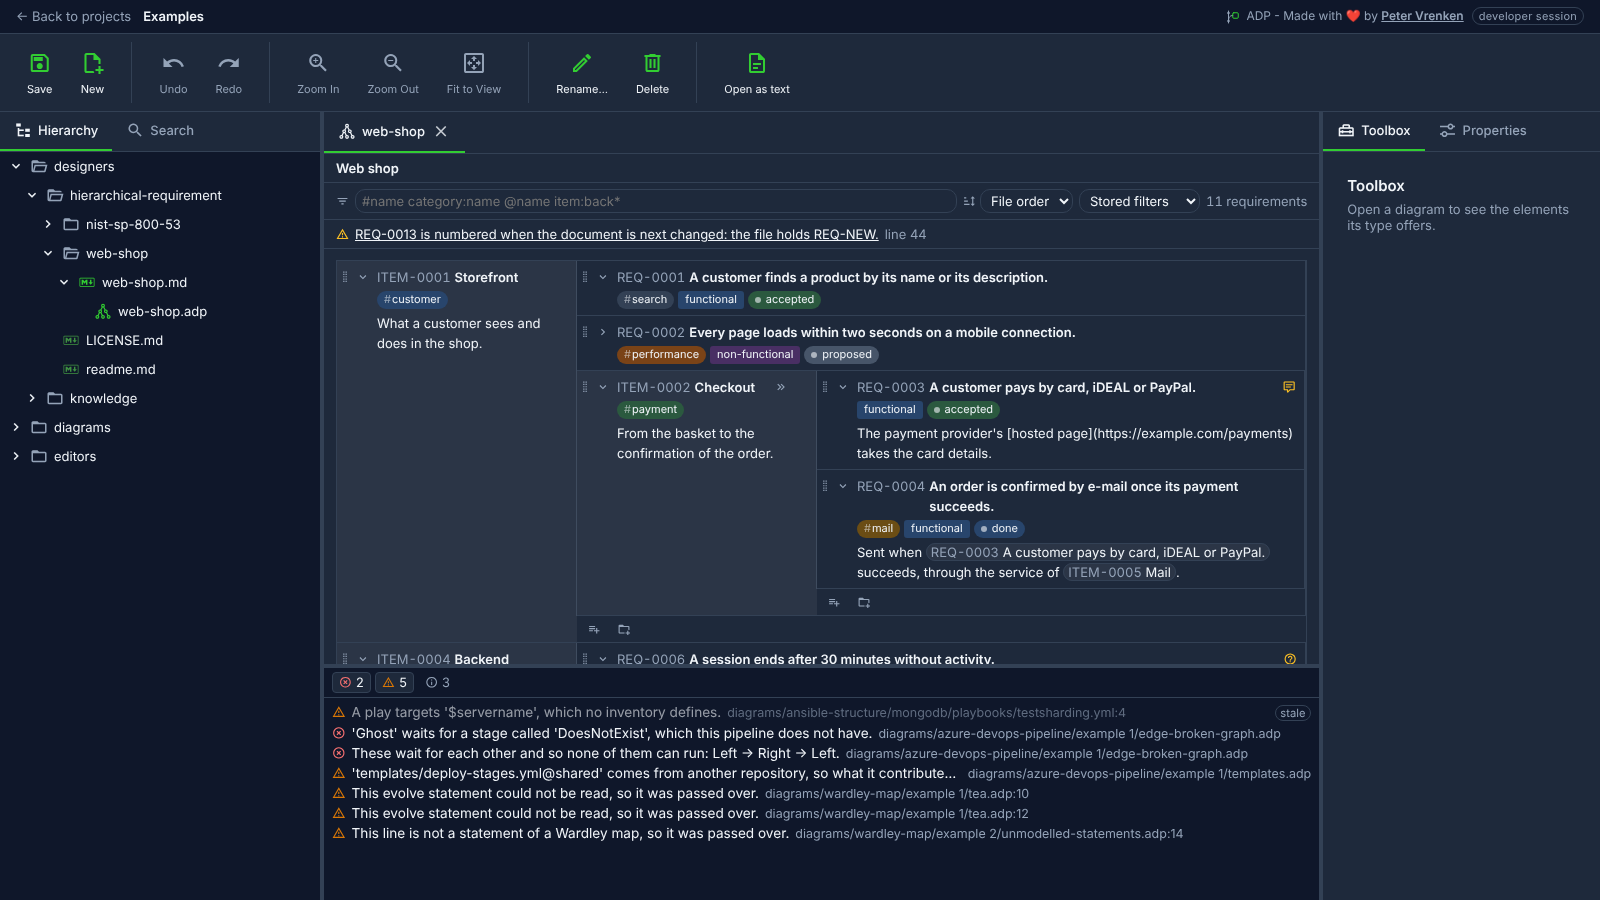
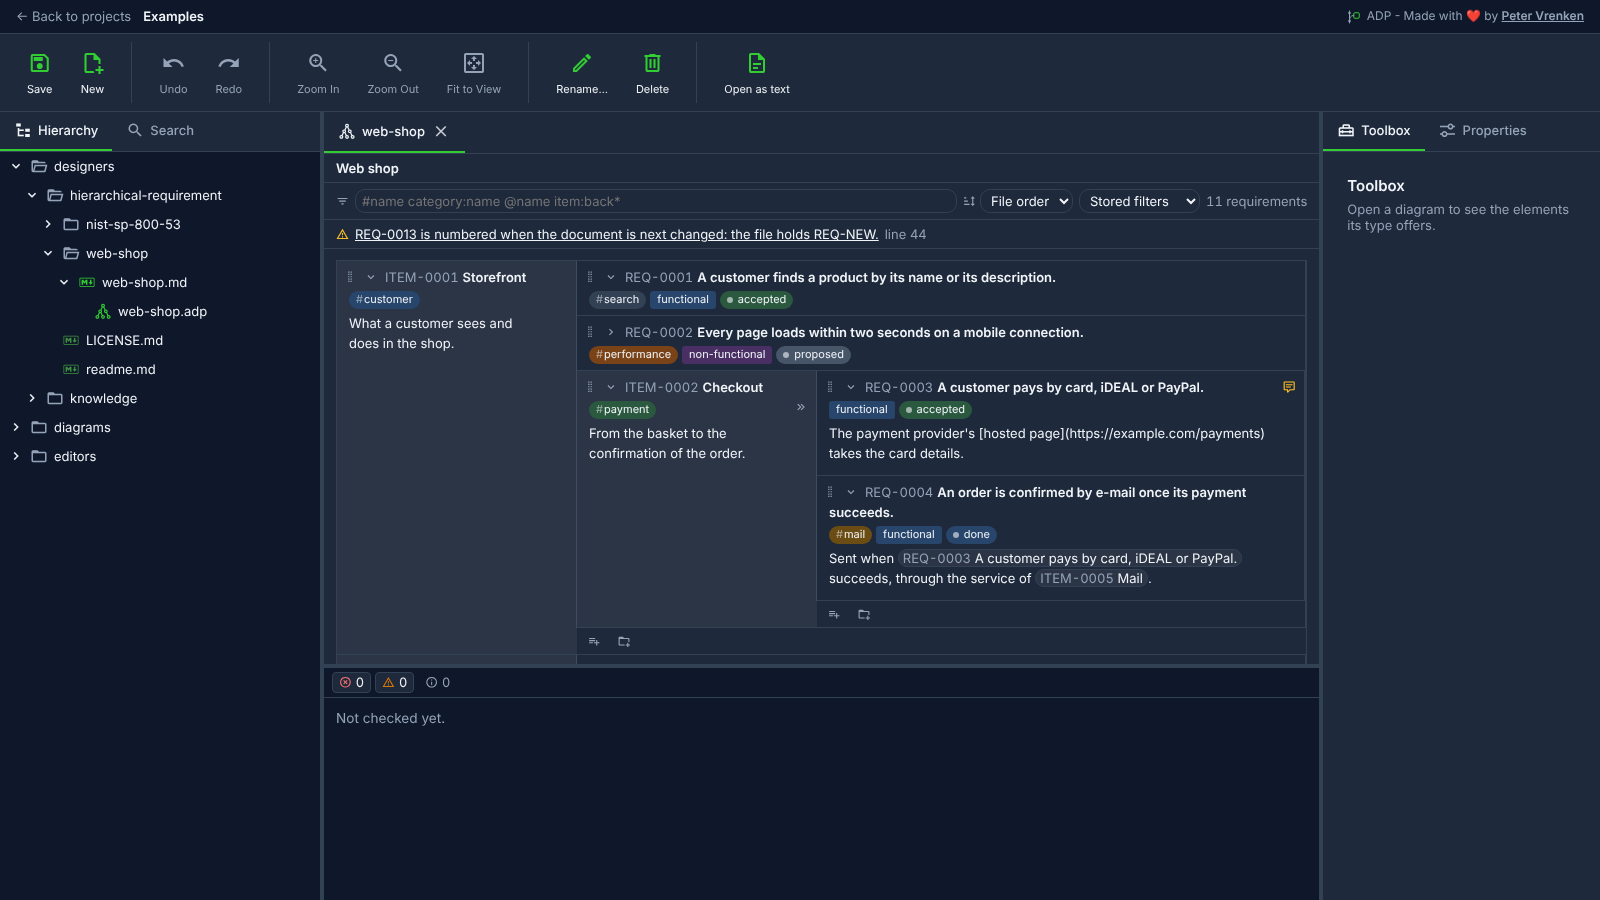
Retake the hierarchical requirement designer's screenshot after the layout polish
The web-shop page as #700, #702 and #705 left it: the doubled margins and
spacing, the reworked item icons, and no developer-session marker (taken
with LocalAuthenticator__DeveloperSessionDisabled=true). The readme row
no longer promises the top of Backend, which the taller boxes push below
the fold.

Claude-Session: https://claude.ai/code/session_012FC67eFov3i6x4wXPW6eeu

diff --git a/docs/screenshots/readme.md b/docs/screenshots/readme.md
@@ -62,7 +62,7 @@ The whole procedure is executable: [`capture.mjs`](capture.mjs) drives all of th
 | `agent-behavior-modelling-bug-fixer-light.png` | `diagrams/agent-behavior-modelling/bug-fixer/` → `bug-fixer.md` → `bug-fixer.adp` | In the light theme: the bug fixer's tree with its Only while, Repeat until, Retry up to 2 times and Ask approval before wrappers, a Delegate and an Ask the user leaf. Nothing selected. |
 | `agent-activity-diagram.png` | `diagrams/agent-activity-diagram/adp-one-day/` → `adp-one-day.aad` → `adp-one-day.adp` | One day of ADP work: the projects in the middle, their specifications around them with tasks listed by status, the agents, the locations with their branches and pull requests, and the environments at the rim, with the Show archived toggle at the top right; Toolbox showing Project, Specification, Agent, Location and Environment. Nothing selected. |
 | `knowledge.png` | `designers/knowledge/yaml/` → `cities.yaml` → `cities.adp` | The knowledge designer's table of cities in its view *Map*: the *All cities* and *Map* view tabs, the columns Country, Name, Population, Tags, Province and Visited with their type icons, selection values as coloured chips, the Province relation as links, and the column summary along the bottom. Not fitted: a table has no canvas. Nothing selected. |
-| `hierarchical-requirement.png` | `designers/hierarchical-requirement/web-shop/` → `web-shop.md` → `web-shop.adp` | The Hierarchical Requirement Designer's page of the web shop, from the small example (never the NIST one): the filter bar, the finding about `REQ-NEW` above the page, the item *Storefront* as a box on the left with its requirements to its right and *Checkout* nested in it with the mark of its hidden level, the top of *Backend* below; numbers beside the titles, tags with their `#`, categories as badges and states with a dot, *REQ-0002* collapsed, the note icons of the open assessments, and the add icons at the end of each level. Not fitted: the page has no canvas. Nothing selected, and no box under the pointer, so no box shows its hover controls. |
+| `hierarchical-requirement.png` | `designers/hierarchical-requirement/web-shop/` → `web-shop.md` → `web-shop.adp` | The Hierarchical Requirement Designer's page of the web shop, from the small example (never the NIST one): the filter bar, the finding about `REQ-NEW` above the page, the item *Storefront* as a box on the left with its requirements to its right and *Checkout* nested in it with the mark of its hidden level (the next item, *Backend*, starts just below the fold); numbers beside the titles, tags with their `#`, categories as badges and states with a dot, *REQ-0002* collapsed, the note icons of the open assessments, and the add icons at the end of each level. Not fitted: the page has no canvas. Nothing selected, and no box under the pointer, so no box shows its hover controls. |
 | `markdown-editor.png` | `editors/markdown/` → `guide.md` | The three-part editor: heading outline above, CodeMirror text left, rendered preview right — and the status line reading **Saved**, since nothing was edited. |
 | `plain-text-editor.png` | `editors/plain/` → `crlf-notes.txt` | The plain-text editor: line numbers and the four lines of the note in a monospace face, and the status line reading **Saved**. |
 | `json-editor.png` | `editors/json/` → `service-broken.json` | The JSON editor on a document that breaks the schema beside it: the keys and values coloured, a red marker in the gutter on each line the schema rejects and the yellow warning on the deprecated `verbose`, wavy underlines under the offending values, and the status line reading **Saved**, **7 errors, 1 warning** and the schema's title *Service settings*. |
